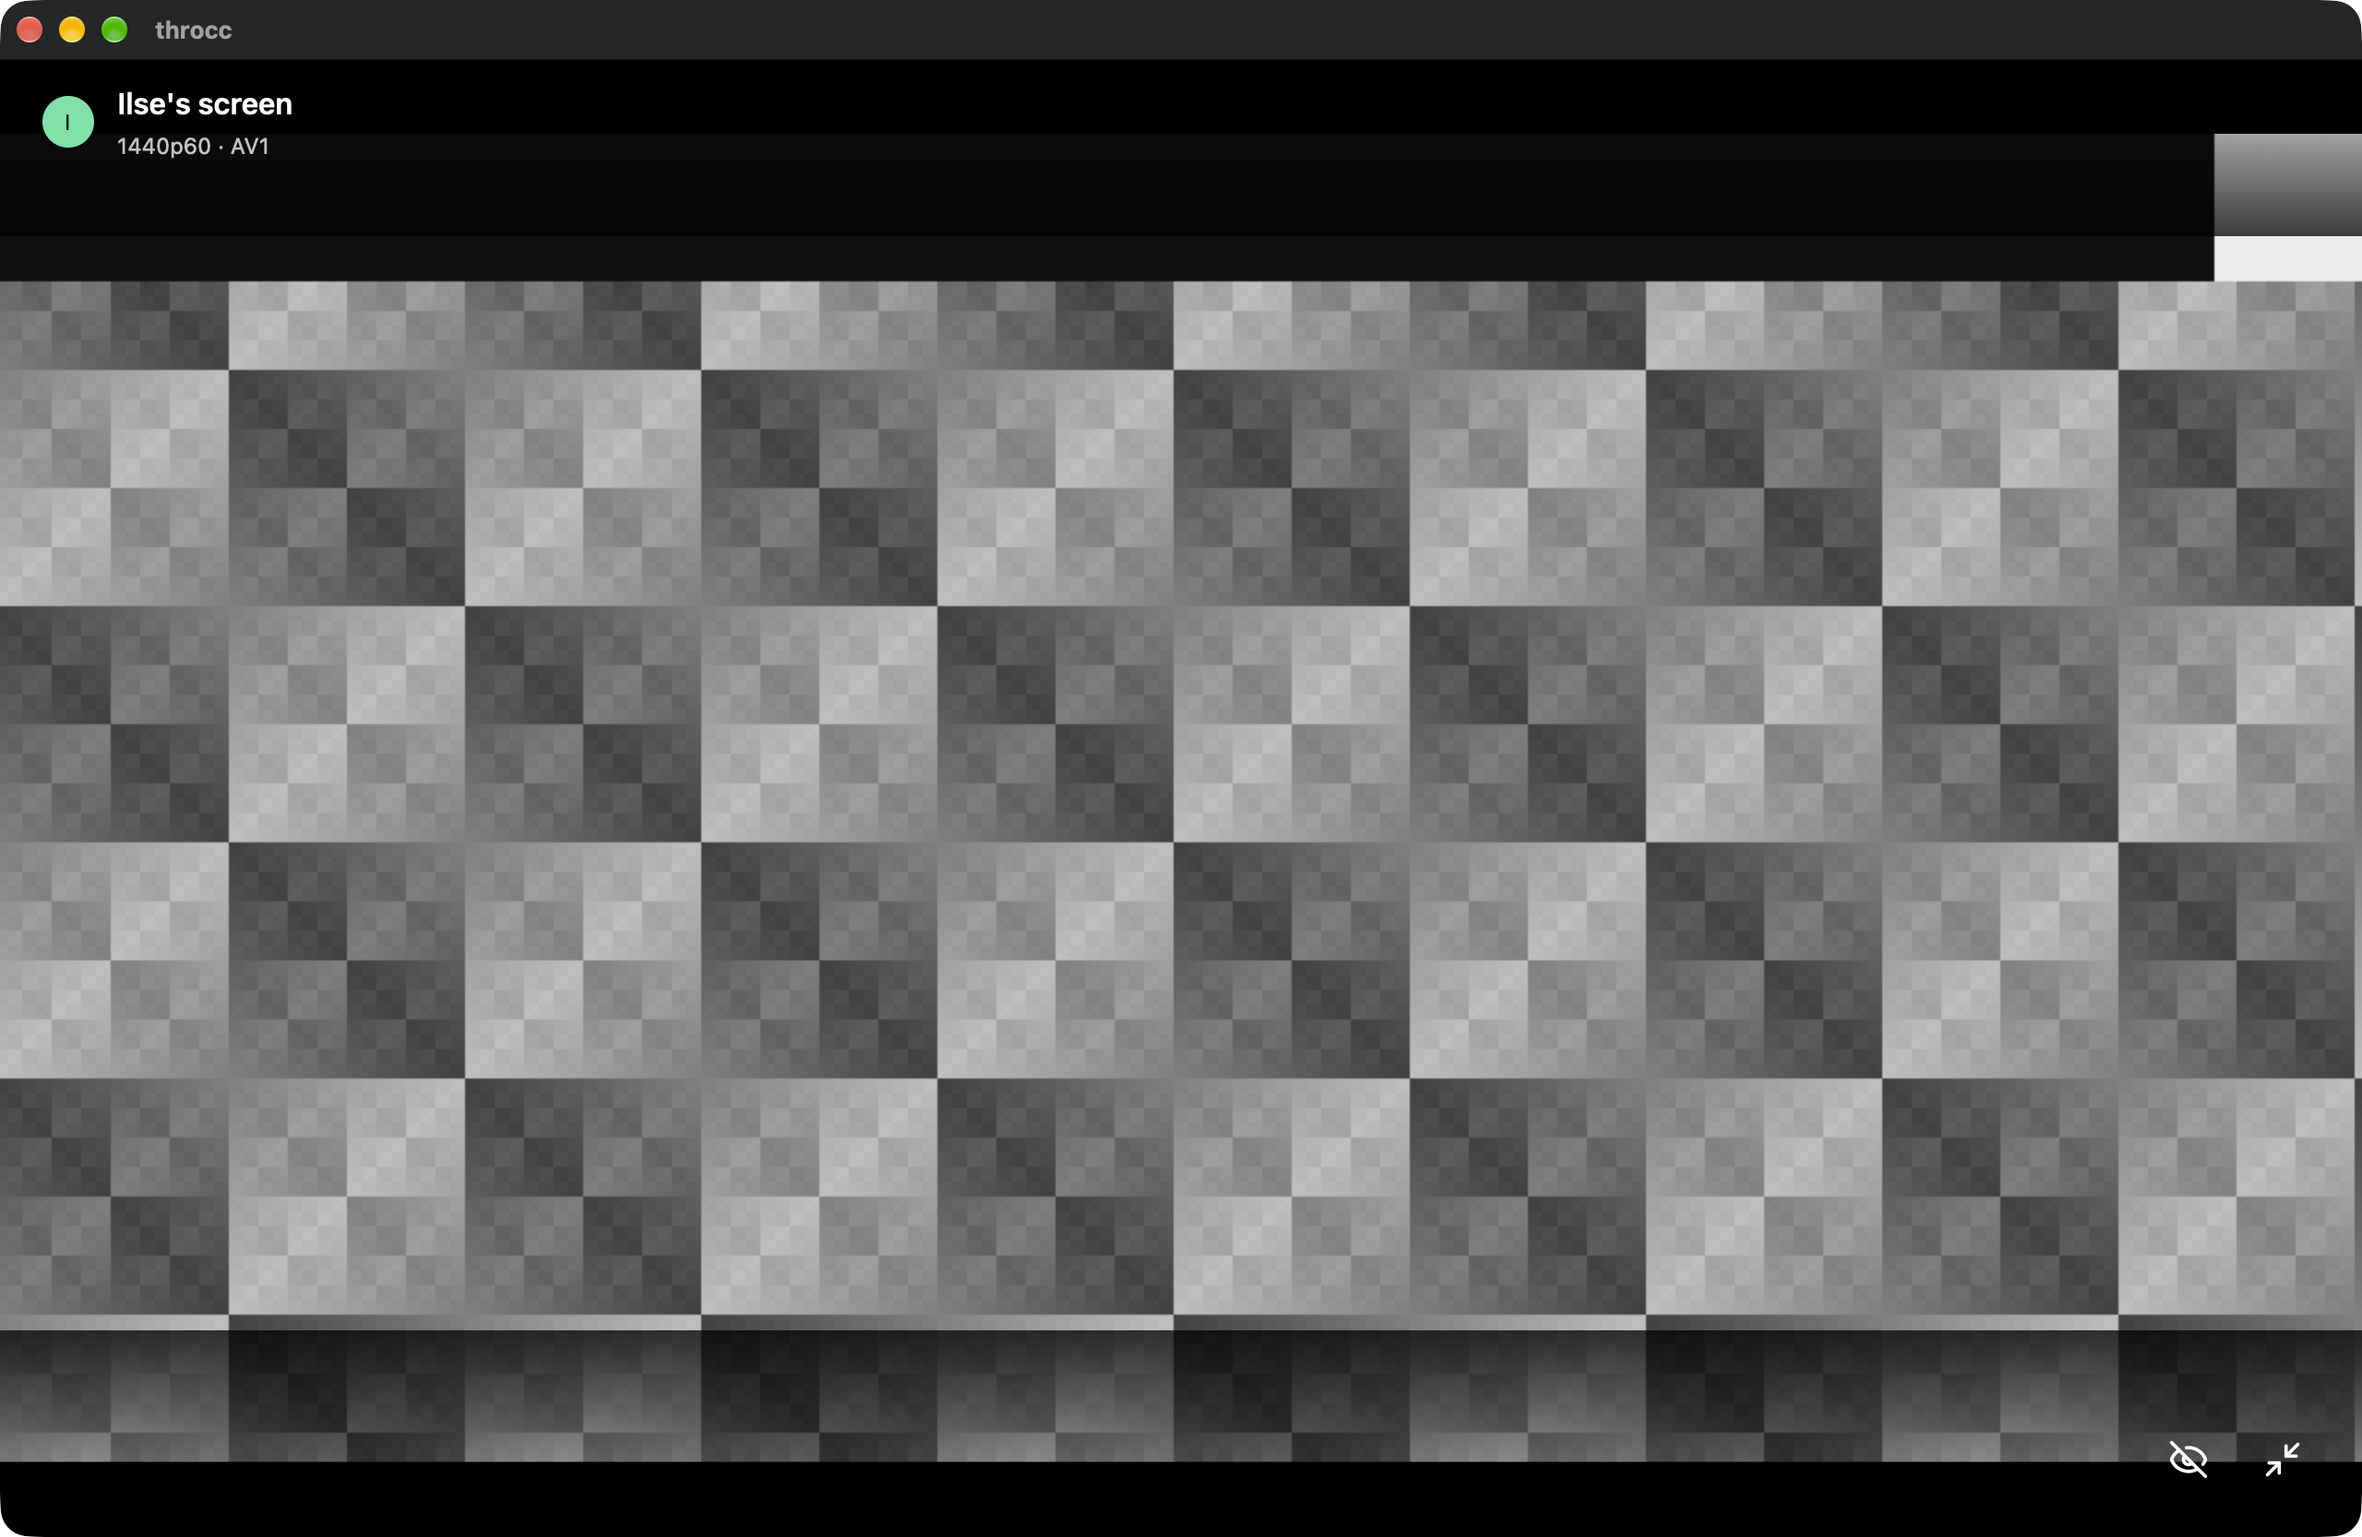
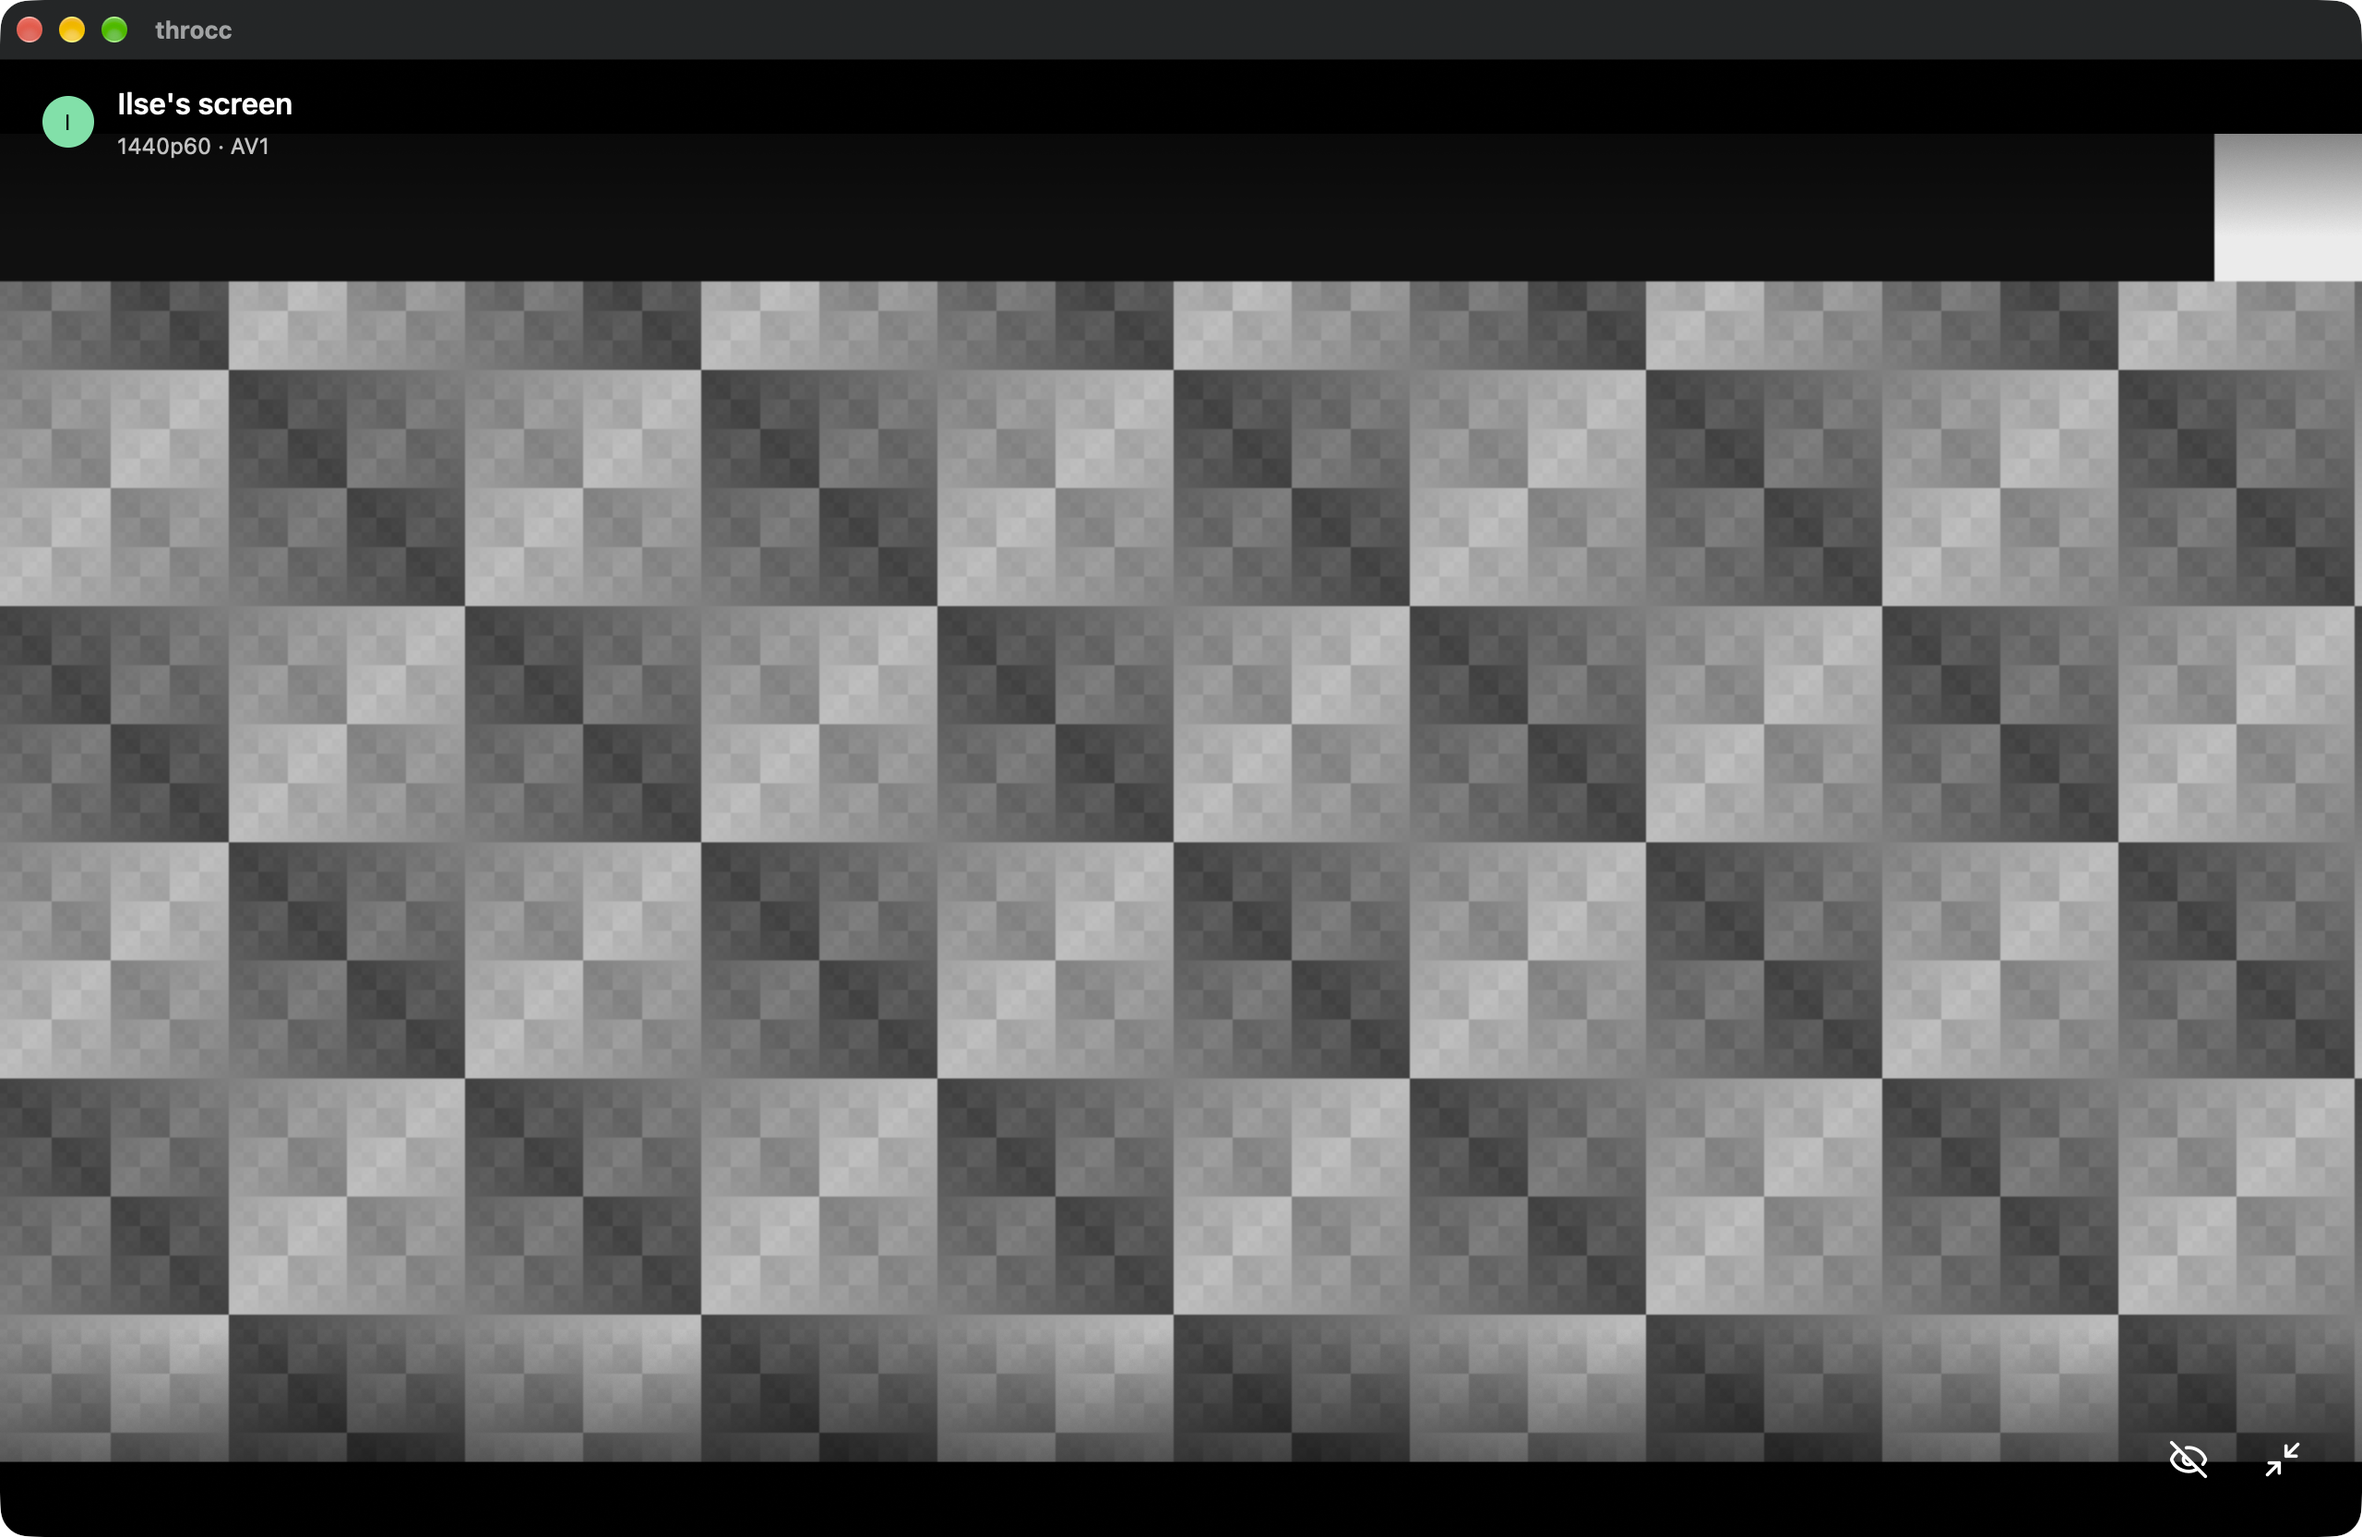
fix(client): darken the fullscreen fades toward the window edges

Changed region(s): [[0.0, 0.8427, 1.0, 0.9676], [0.9375, 0.0936, 1.0, 0.1561]]

diff --git a/crates/throcc-client/src/theme.rs b/crates/throcc-client/src/theme.rs
@@ -328,9 +328,10 @@ pub fn player_text() -> Hsla {
 pub fn player_hover() -> Hsla {
     gpui::white().opacity(0.16)
 }
-/// The shade behind a fullscreen stream's controls, darkest at the edge `toward_top` says.
-pub fn player_shade(toward_top: bool) -> gpui::Background {
-    let angle = if toward_top { 0. } else { 180. };
+/// The shade behind a fullscreen stream's controls, darkest at the window's edge: the
+/// bottom one when `at_bottom`, else the top one.
+pub fn player_shade(at_bottom: bool) -> gpui::Background {
+    let angle = if at_bottom { 180. } else { 0. };
     gpui::linear_gradient(
         angle,
         gpui::linear_color_stop(gpui::black().opacity(0.0), 0.0),
